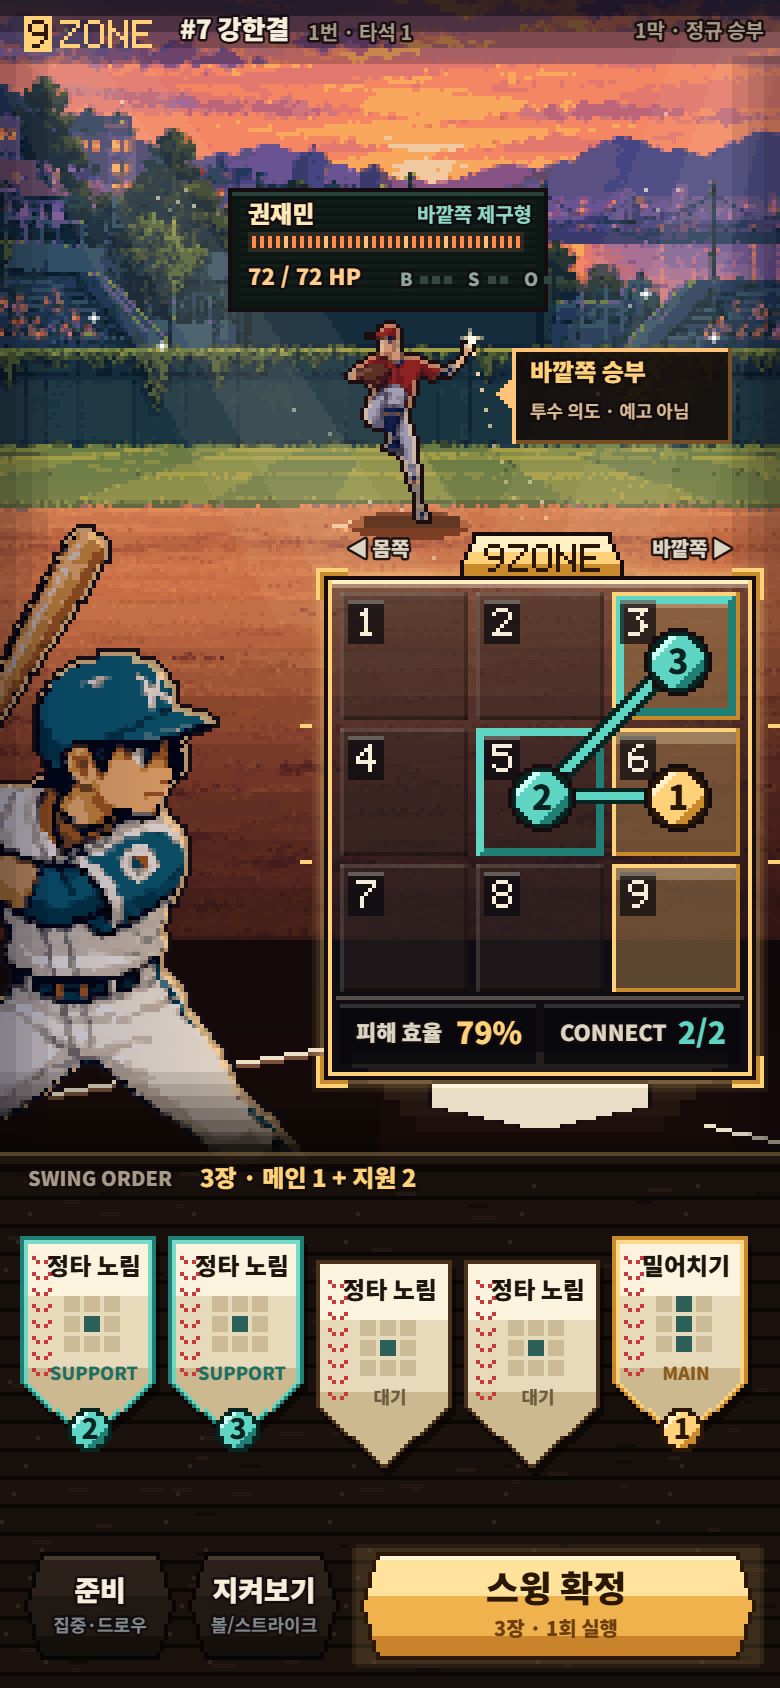
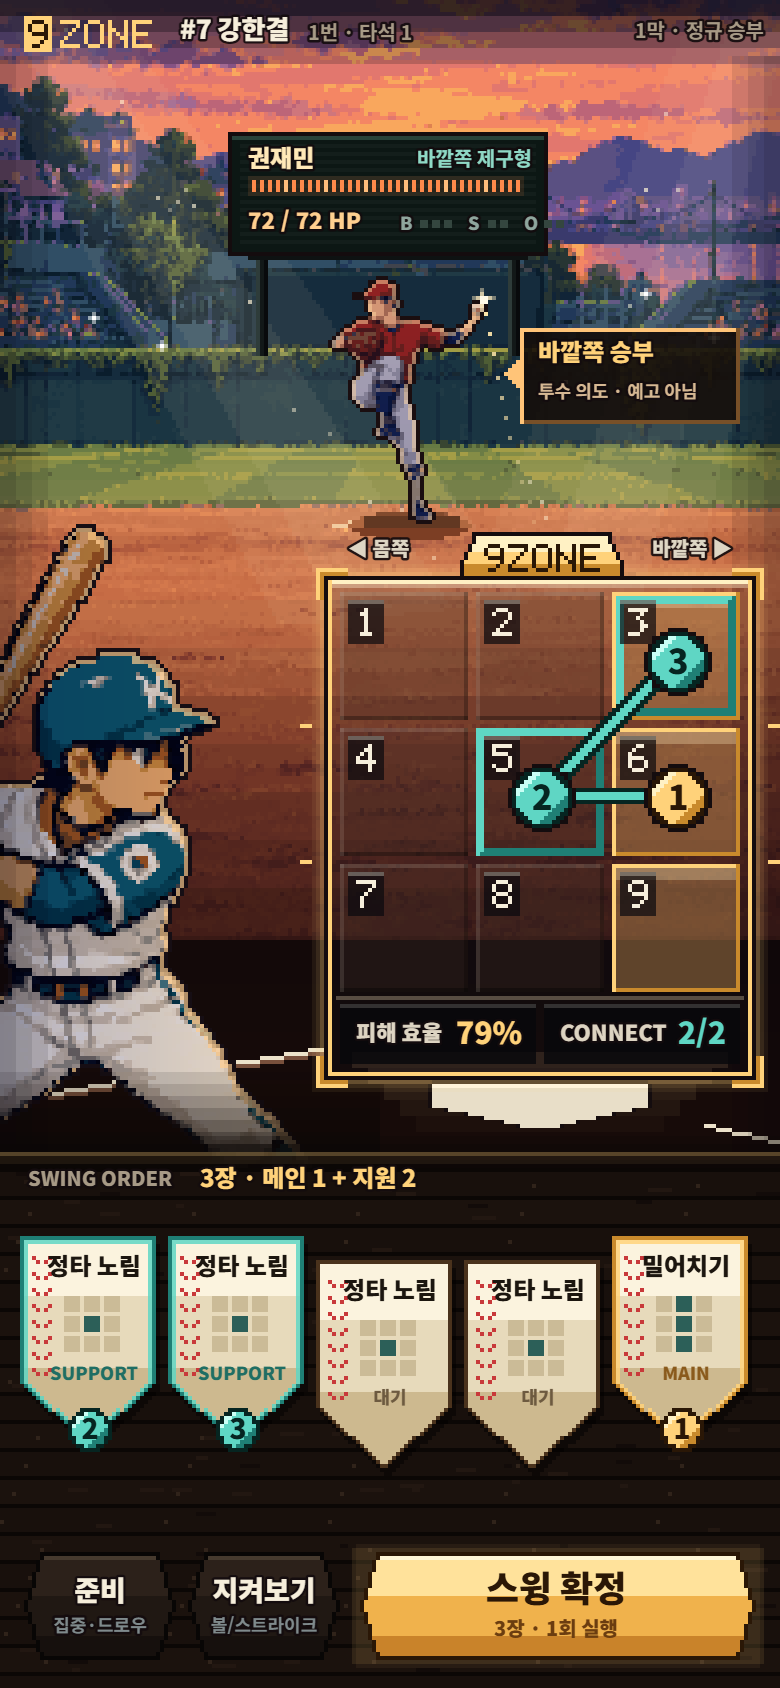
design(v12): LOOP 3 — let the field show through and the pitcher lead
The zone glass drops from a dark panel to a thin tint, so the clay and the
plate read through the 9ZONE and it sits in the world as a lit device, not a
card laid over it. The pitcher grows about 20% and the scoreboard moves up
onto two posts behind the stands, so the duel line (hand, ball, zone) beats
the HUD for attention. 390x844 capture read directly.

Changed region(s): [[0.2769, 0.0616, 0.9538, 0.3081], [0.4, 0.3389, 0.9846, 0.5237]]

diff --git a/docs/design/v12/gm/scene.js b/docs/design/v12/gm/scene.js
@@ -26,7 +26,9 @@ line(0,275,80,262,[236,226,202]);line(0,276,80,263,[120,80,60]);                
 line(176,281,194,285,[236,226,202]);
 
 // 2. OPPONENT — on the outfield scoreboard
-const B={x:58,y:48,w:78,h:29};
+const B={x:58,y:34,w:78,h:29};
+for(const x of [B.x+6,B.x+B.w-9]){rect(x,B.y+B.h,3,26,[18,24,24]);rect(x,B.y+B.h,1,26,[46,60,58]);rect(x+2,B.y+B.h,1,26,[8,10,12])} // scoreboard posts into the stands
+rect(B.x+4,B.y+B.h,B.w-8,2,[14,18,18]);
 rect(B.x-1,B.y-1,B.w+2,B.h+2,C.ink);rect(B.x,B.y,B.w,B.h,C.board);rect(B.x,B.y,B.w,1,C.boardEdge);
 for(let j=2;j<B.h-2;j+=2)K.wash(B.x+2,B.y+j,B.w-4,1,[255,255,255],.03);
 const hpSeg=34,hpOn=Math.round(hpSeg*S.pitcher.hp/S.pitcher.maxHp);
@@ -36,13 +38,13 @@ let bx=B.x+42;for(const [l,n,on] of [['B',3,S.count.balls],['S',2,S.count.strike
   for(let i=0;i<n;i++)rect(bx+5+i*3,B.y+21,2,2,i<on?C.gold:[52,70,63]);bx+=5+n*3+3}
 
 // 3. DUEL — pitcher far, batter near, one sunset backlight
-const pitcher=K.actorPass(K.kmeans(K.resample(K.pixels(pitcherImg),33,51,'mean'),18),{ink:[26,14,16],rim:[255,214,160],rimDirs:[[0,-1],[1,0],[-1,0]],fill:{from:[.9,.88,.98],to:[.78,.76,.9],axis:'y'},rimK:.5});
+const pitcher=K.actorPass(K.kmeans(K.resample(K.pixels(pitcherImg),40,62,'mean'),18),{ink:[26,14,16],rim:[255,214,160],rimDirs:[[0,-1],[1,0],[-1,0]],fill:{from:[.9,.88,.98],to:[.78,.76,.9],axis:'y'},rimK:.5});
 for(let i=-15;i<=15;i++){const w=Math.round(Math.sqrt(1-(i/15)**2)*3);for(let j=-w;j<=w;j++)px(102+i,131+j,j>0?[124,62,36]:[176,104,64])}
 K.wash(91,129,24,3,[20,8,4],.5);K.wash(94,128,18,1,[20,8,4],.3);
-K.blit(pitcher,86,80);
-const ball=[117,84];rect(ball[0],ball[1],2,2,[255,250,232]);
+K.blit(pitcher,82,69);
+const ball=[120,74];rect(ball[0],ball[1],2,2,[255,250,232]);
 for(const [dx,dy,a] of [[-1,0,.8],[2,0,.8],[0,-1,.8],[0,2,.8],[-2,0,.45],[3,0,.45],[0,-2,.45],[0,3,.45]])px(ball[0]+dx,ball[1]+dy,[255,236,190],a);
-for(let i=0;i<24;i+=2){const t=i/23;px(Math.round(118+t*10+t*t*6),Math.round(88+t*52),[255,230,170],1-t*.9)} // path fades before the zone (C5)
+for(let i=0;i<24;i+=2){const t=i/23;px(Math.round(121+t*9+t*t*6),Math.round(78+t*60),[255,230,170],1-t*.9)} // path fades before the zone (C5)
 
 const batter=K.actorPass(K.kmeans(K.resample(K.pixels(batterImg),139,200,'mode'),28),{ink:[22,14,20],rim:[255,204,140],rimDirs:[[1,0],[0,-1],[1,-1]],fill:{from:[.6,.64,.86],to:[1.02,.96,.9],axis:'x'},rimK:.7});
 K.blit(batter,-39,131);
@@ -55,7 +57,7 @@ for(let i=0;i<150;i++){const x=Math.floor(rnd()*190),y=293+Math.floor(rnd()*128)
 for(let x=0;x<195;x+=41)for(let y=293;y<422;y+=7)px(x+((y*7)%13),y+3,[70,52,38]);                // nail heads
 K.wash(0,292,195,130,[10,6,5],.35);
 
-const I={x:128,y:87,w:55,h:24};
+const I={x:130,y:82,w:55,h:24};
 rect(I.x,I.y,I.w,I.h,[20,12,8],.88);rect(I.x,I.y,I.w,1,[255,196,120]);rect(I.x,I.y+I.h-1,I.w,1,[120,80,40]);
 rect(I.x,I.y,1,I.h,[255,196,120]);rect(I.x+I.w-1,I.y,1,I.h,[120,80,40]);
 for(let j=0;j<4;j++)rect(I.x-1-j,I.y+8+j,1,7-2*j,[255,196,120]);
@@ -65,7 +67,7 @@ const Z={x:82,y:145,w:106,h:124},G={x:Z.x+3,y:Z.y+3,cell:32,gap:2};
 for(let j=0;j<20;j+=4)K.wash(Z.x+6+j,Z.y+Z.h+j-6,Z.w-12-2*j,4,[255,214,150],.14*(1-j/20));    // light onto the plate, stepped
 {const x0=108,y0=271;rect(x0,y0-1,54,1,C.ink);
  for(let j=0;j<11;j++){const k=j<5?0:Math.round((j-5)*4.4);rect(x0+k,y0+j,54-2*k,1,j===0?[255,250,236]:[232,222,200]);px(x0+k-1,y0+j,C.ink);px(x0+54-k,y0+j,C.ink)}}
-rect(Z.x,Z.y,Z.w,Z.h,[12,20,34],.42);
+rect(Z.x,Z.y,Z.w,Z.h,[12,20,34],.16);
 for(let r=2;r<=4;r++){const a=[0,0,.34,.16,.07][r];K.wash(Z.x-r,Z.y-r,Z.w+2*r,1,C.gold,a);K.wash(Z.x-r,Z.y+Z.h+r-1,Z.w+2*r,1,C.gold,a);
   K.wash(Z.x-r,Z.y-r+1,1,Z.h+2*r-2,C.gold,a);K.wash(Z.x+Z.w+r-1,Z.y-r+1,1,Z.h+2*r-2,C.gold,a)}
 rect(Z.x-1,Z.y-1,Z.w+2,1,C.ink);rect(Z.x-1,Z.y+Z.h,Z.w+2,1,C.ink);rect(Z.x-1,Z.y,1,Z.h,C.ink);rect(Z.x+Z.w,Z.y,1,Z.h,C.ink);
@@ -80,7 +82,7 @@ for(const t of [1,2]){const ty=G.y+t*(G.cell+G.gap)-1;rect(Z.x-7,ty,3,1,C.gold);
 const main=new Set(S.coverage.main),sup=new Set(S.coverage.supports.flatMap(x=>x.cells));
 const cellXY=z=>[G.x+(z%3)*(G.cell+G.gap),G.y+Math.floor(z/3)*(G.cell+G.gap)];
 for(let z=0;z<9;z++){const [x,y]=cellXY(z),c=G.cell,sh=S.read[z].shade;
-  rect(x,y,c,c,[10,16,28],.35);
+  rect(x,y,c,c,[10,16,28],.2);
   if(sh)K.wash(x,y,c,c,C.ember,[0,.07,.17,.29][sh]);                                            // layer 1: read shade (level 0: 3 shades)
   rect(x,y,c,1,[246,238,219],.14);rect(x,y+c-1,c,1,[0,0,0],.3);rect(x,y,1,c,[246,238,219],.12);rect(x+c-1,y,1,c,[0,0,0],.25);
   if(main.has(z)){K.wash(x,y,c,c,C.gold,.2);K.wash(x+1,y+1,c-2,3,C.goldHi,.28);rect(x,y,c,1,C.gold);rect(x,y+c-1,c,1,C.goldLo);rect(x,y,1,c,C.gold);rect(x+c-1,y,1,c,C.goldLo)}
